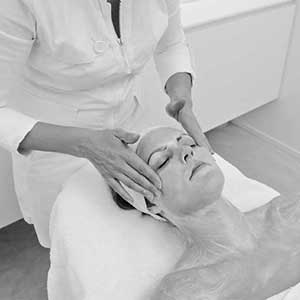
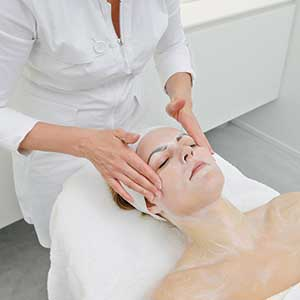
add image to lunchtime kuren page

Changed region(s): [[0.06, 0.24, 1.0, 1.0], [0.36, 0.0, 0.42, 0.12]]

diff --git a/index.html b/index.html
@@ -15,21 +15,21 @@ layout: default
       <p class="bodytext">Mijn zaak is geen klassiek schoonheidsinstituut of schoonheidssalon maar een echt Skinstituut of Skincare center.  Mijn missie is dat iedereen een gezonde huid heeft, je hebt er tenslotte maar 1 voor de rest van je leven. Ik wil je inspireren, begeleiden en coachen om je huid optimaal te verzorgen en gezond te maken. Van een gezonde huid ga je vanzelf stralen.</p>
       <p class="bodytext"><a class="action" href="/over-anniek.html">Meer over Anniek</a></p>
       </div>
-      <img class="about" src="images/anniek-400.jpg" alt="Anniek Lambrecht Skin Coach" class="section-about__img" >
+      <img class="about" src="/images/anniek-400.jpg" alt="Anniek Lambrecht Skin Coach" class="section-about__img" >
     </section>
     <section class="section-steps">
       <h1>Een mooie huid in 3 stappen</h1>
       <div class="steps">
       <div class="step">
         <h2 class="step__title-h2">Stap 1</h2>
-        <a href="/huidanalyse.html"><img class="step__img" src="images/huidanalyse-toestel.jpg" alt="huidanalyse"></a>
+        <a href="/huidanalyse.html"><img class="step__img" src="/images/huidanalyse-toestel.jpg" alt="huidanalyse"></a>
         <a href="/huidanalyse.html"><h3 class="step__title-h3">Huidanalyse</h3></a>
         <p class="bodytext">Ben je een nieuwe klant, boek dan
 deze  discovery behandeling.</p>
       </div>
       <div class="step">
         <h2 class="step__title-h2">Stap 2</h2>
-        <a href="/gelaatsverzorging.html"><img class="step__img" src="images/gelaatsverzorging-300.jpg" alt="huidanalyse"></a>
+        <a href="/gelaatsverzorging.html"><img class="step__img" src="/images/gelaatsverzorging-300.jpg" alt="huidanalyse"></a>
         <a href="/gelaatsverzorging.html"><h3 class="step__title-h3">Gelaatsverzorging</h3></a>
         <p class="bodytext">Vervolledig je huidverzorgingsroutine
 en boek regelmatig een van deze
@@ -37,7 +37,7 @@ behandelingen.</p>
       </div>
       <div id="behandelingen" class="step">
         <h2 class="step__title-h2">Stap 3</h2>
-        <a href="/huidverbeterende_kuren.html"><img class="step__img" src="images/lunch-time-kuren-300.jpg" alt="huidanalyse"></a>
+        <a href="/huidverbeterende_kuren.html"><img class="step__img" src="/images/lunch-time-kuren-300.jpg" alt="huidanalyse"></a>
         <a href="/huidverbeterende_kuren.html"><h3 class="step__title-h3">Huidverbeterende kuren</h3></a>
         <p class="bodytext">De weg naar een perfecte huid voor
 klanten die reeds Environ dagelijks gebruiken.</p>
@@ -47,34 +47,34 @@ klanten die reeds Environ dagelijks gebruiken.</p>
     <section class="section-treatments">
       <div class="row">
         <div class="treatment">
-          <a href="/df-mobile.html"><img class="treatment__img" src="images/df-mobile.jpg" alt="df-mobile environ" /></a>
+          <a href="/df-mobile.html"><img class="treatment__img" src="/images/df-mobile.jpg" alt="df-mobile environ" /></a>
           <a href="/df-mobile.html"><h3 class="treatment__title">DF Mobile</h3></a>
           <p class="bodytext">Het DF Mobile apparaat is een revolutionair apparaat voor een mooie, gezonde huid</p>
         </div>
         <div class="treatment">
-          <a href="/make-up.html"><img class="treatment__img" src="images/make-up-300.jpg" alt="df-mobile environ" /></a>
+          <a href="/make-up.html"><img class="treatment__img" src="/images/make-up-300.jpg" alt="df-mobile environ" /></a>
           <a href="/make-up.html"><h3 class="treatment__title">Make Up</h3></a>
           <p class="bodytext">Laat je natuurlijke schoonheid beter tot zijn recht komen</p>
         </div>
         <div class="treatment">
-          <a href="/browstyling.html"><img class="treatment__img" src="images/browstyling.jpg" alt="df-mobile environ" /></a>
+          <a href="/browstyling.html"><img class="treatment__img" src="/images/browstyling.jpg" alt="df-mobile environ" /></a>
           <a href="/browstyling.html"><h3 class="treatment__title">Browstyling</h3></a>
           <p class="bodytext">I only want the best for your brows… </p>
         </div>
       </div>
       <div class="row">
         <div class="treatment">
-          <a href="/epilatie.html"><img class="treatment__img" src="images/epilatie-benen-300.jpg" alt="df-mobile environ" /></a>
+          <a href="/epilatie.html"><img class="treatment__img" src="/images/epilatie-benen-300.jpg" alt="df-mobile environ" /></a>
           <a href="/epilatie.html"><h3 class="treatment__title">Epilatie</h3></a>
           <p class="bodytext">Epilatie gelaat en lichaam.</p>
         </div>
         <div class="treatment">
-          <a href="/definitieve-ontharing.html"><img class="treatment__img" src="images/lightsheer-300.jpg" alt="df-mobile environ" /></a>
+          <a href="/definitieve-ontharing.html"><img class="treatment__img" src="/images/lightsheer-300.jpg" alt="df-mobile environ" /></a>
           <a href="/definitieve-ontharing.html"><h3 class="treatment__title">Definitieve Ontharing</h3></a>
           <p class="bodytext">De meest definitieve oplossing om lichaamshaar te verwijderen.</p>
         </div>
         <div class="treatment">
-          <a href="/permanente-make-up.html"><img class="treatment__img" src="images/permanente-make-up-300-2.jpg" alt="df-mobile environ" /></a>
+          <a href="/permanente-make-up.html"><img class="treatment__img" src="/images/permanente-make-up-300-2.jpg" alt="df-mobile environ" /></a>
           <a href="/permanente-make-up.html"><h3 class="treatment__title">Permanente Make Up</h3></a>
           <p class="bodytext">’s Morgens, ‘s middags en ’s avonds altijd een verzorgde uitstraling</p>
         </div>
@@ -89,7 +89,7 @@ klanten die reeds Environ dagelijks gebruiken.</p>
           <button class="cta">Bestel een Kadobon</button>
         </form>
       </div>
-      <img src="images/kadobon.png" alt="kadobon">
+      <img src="/images/kadobon.png" alt="kadobon">
     </section>
     <section id="merken" class="section-brands">
       <header>
@@ -97,17 +97,17 @@ klanten die reeds Environ dagelijks gebruiken.</p>
       </header>
       <div class="brands">
         <div class="brand">
-          <img class="brand__img" src="images/logo-advanced-nutrition-programme.jpg" alt="logo Advanced Nutrition Programme">
+          <img class="brand__img" src="/images/logo-advanced-nutrition-programme.jpg" alt="logo Advanced Nutrition Programme">
           <p class="brand_p bodytext">De juiste vitaminen en voedingstoffen vormen de essentie van wat Advanced Nutrition Programme je aanbiedt om de gezondheid van je huid te ondersteunen. De producten zijn ontwikkeld op basis van beproefde wetenschappelijke formules en bieden een oplossing voor specifieke huidproblemen.</p>
           <p class="bodytext"><a class="action" href="/merken.html">meer info</a></p>
         </div>
         <div class="brand">
-          <img class="brand__img" src="images/logo-environ.png" alt="logo Environ">
+          <img class="brand__img" src="/images/logo-environ.png" alt="logo Environ">
           <p class="brand_p bodytext">Vitamine A is onmisbaar voor een gezonde huid. Jammer genoeg wordt vitamine A afgebroken door licht en andere omgevingsfactoren en heb je er vaak een tekort aan.</p>
           <p class="bodytext"><a class="action" href="/merken.html">meer info</a></p>
         </div>
         <div class="brand">
-          <img class="brand__img" src="images/logo-jane-iredale.jpg" alt="logo Jane Iredale">
+          <img class="brand__img" src="/images/logo-jane-iredale.jpg" alt="logo Jane Iredale">
           <p class="brand_p bodytext">Minerale ingrediënten van de hoogste kwaliteit, die tegelijk je huid verzorgen en de werking van je huidverzorgingsproducten en –behandelingen verhogen. Zodat jij blijft stralen, dag in dag uit.</p>
           <p class="bodytext"><a class="action" href="/merken.html">meer info</a></p>
         </div>

diff --git a/huidverbeterende_kuren.html b/huidverbeterende_kuren.html
@@ -71,11 +71,19 @@ layout: default
         Volledig Gelaat €660
       </li>
     </ul>
-
+  </div>
+  <aside class="sidebar">
+    <img class="sidebar__img" src="images/lunch-time-kuren-1-500.jpg" alt="huidverbeterende kuren" />
+  </aside>
+</div>
+<div class="row">
+  <aside class="sidebar">
+    <img class="sidebar__img" src="images/cool-peel-500.jpg" alt="huidverbeterende kuren" />
+  </aside>
+  <div class="content">
     <h2>Cool Peel System</h2>
         <p class="bodytext">Deze revolutionaire benadering van peeling bereikt ongelooflijke resultaten zonder huidbeschadiging.
   Door een lage concentratie lactaatzuur wordt de pH van de huid verlaagd en het vrijgeven van groeifactoren gestimuleerd. Dit resulteert in een strakkere en gladdere huid. De peeling vernietigt bacteriën, verhoogt de hydratatie en verwijdert de opstapeling van dode huidcellen, waardoor de huid zuiverder wordt en haar textuur gladder. De Cool Peel is ideaal voor lijntjes en rimpels, dikke, ruwe huid of probleemhuid, beschadiging door de zon en rosacea. De behandeling wordt in kuur van 3 tot 6 behandelingen aangeboden voor optimaal resultaat.</p>
-  <p class="price">&euro;66.</p>
   <ul class="listing">
     <li>
       <svg class="listing__icon">
@@ -91,7 +99,5 @@ layout: default
     </li>
   </ul>
   </div>
-  <aside class="sidebar">
-    <img class="sidebar__img" src="images/cool-peel-600.jpg" alt="huidverbeterende kuren" />
-  </aside>
+</div>
 </section>
